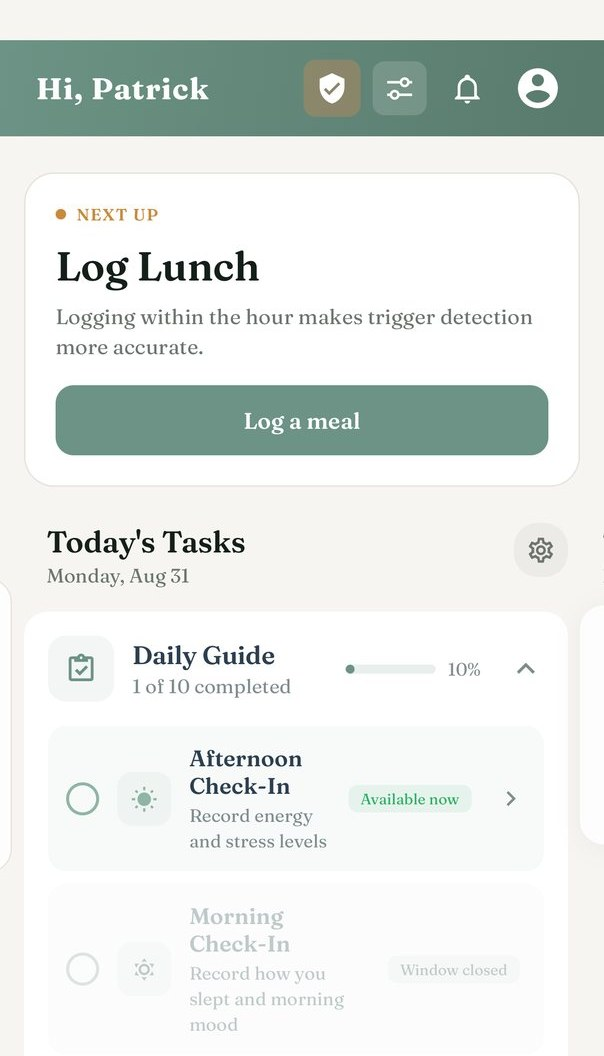
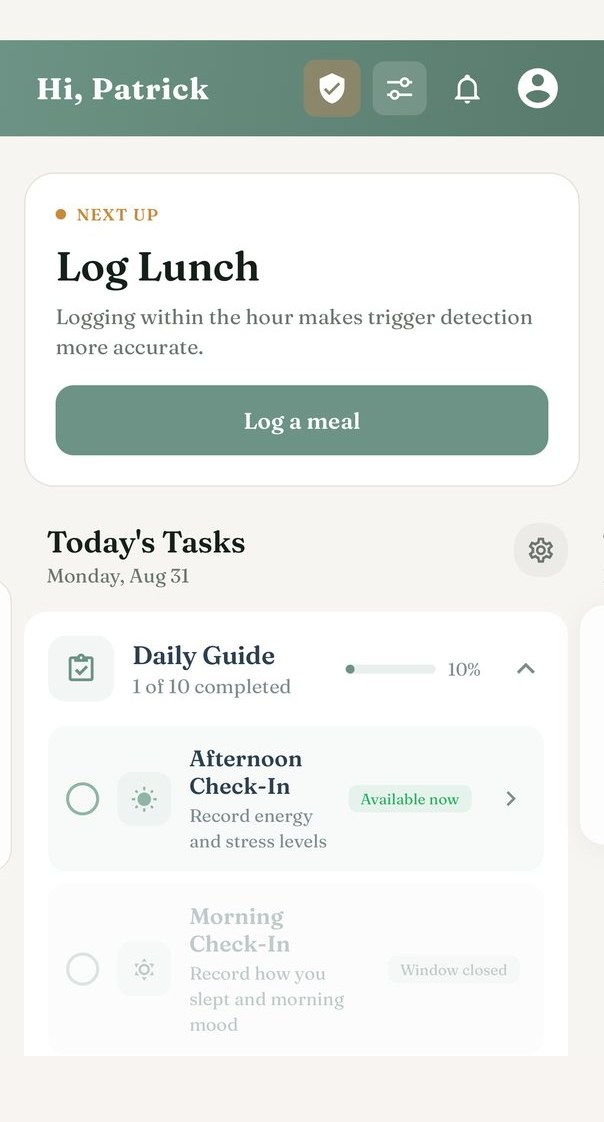
Rework the hero pair
Three things, all following from cropping the chrome off the screenshots.

The meal photograph was flush against the top edge of the front phone, with
no app above it, so it read as a cropped picture rather than a screen. Its
window had been slid down to 209 to save the analysis description, and at
1056px tall it could have the air or the description, never both: the
photograph starts at 182 and the card runs to 1262.

So the frames are 1122 now, and both are the same shape. Holding them to one
height was the thing making it impossible, and matching them was right for a
different reason too — the depth is already carried by scale(.88), the
rotation and the dimmed brightness on the back phone. A different aspect ratio
on top of that made them two differently-shaped objects rather than one phone
seen twice, and 6% is the worst possible amount: too small to read as
perspective, too large to look identical.

hero-home cannot be cropped to 1122, because its floating tab bar starts at
1140 and starting that much earlier would land inside the status bar. Its last
66px are its own ground colour instead, sampled from the screenshot — a band
at the bottom of a phone that is scaled down, rotated and partly behind the
other one.

And the gap above the pair is opened up. The frames lost 257px when the chrome
came off, so the spacing that had been tuned against full-length phones read
tight against these.

diff --git a/css/style.css b/css/style.css
@@ -195,7 +195,11 @@ header nav a:hover { color: var(--cream); }
 
 .hero-inner {
   display: grid;
-  gap: clamp(2.5rem, 6vw, 4rem);
+  /* Opened up after the screenshots were cropped. The frames lost 257px of
+     height, so the same gap read tighter against them than it had against
+     full-length phones — the hero is the one place on the page with nothing
+     competing for the space, and it can afford the air. */
+  gap: clamp(3.25rem, 7.5vw, 5.25rem);
   align-items: center;
 }
 
@@ -407,6 +411,13 @@ header nav a:hover { color: var(--cream); }
    no absolute positioning to keep in sync. The back phone deliberately runs
    past the container — .hero clips it, which is what makes it read as a stack
    continuing off-frame rather than two phones that happen to touch. */
+/* One shape for both. The depth is already carried by scale(.88), the
+   rotation and the dimmed brightness below; a different aspect ratio on top
+   of that made them two differently-shaped objects rather than one phone seen
+   twice. hero-home is padded to this height with its own ground colour,
+   because its tab bar starts at 1140 and it cannot be cropped any taller. */
+.hero-phone .device { aspect-ratio: 604 / 1122; }
+
 .hero-shot {
   display: grid;
   grid-template-areas: 'stack';

diff --git a/index.html b/index.html
@@ -92,12 +92,12 @@
         <figure class="hero-shot">
           <div class="hero-phone hero-phone-back">
             <div class="device">
-              <img src="images/screens/hero-home.jpg" alt="" width="604" height="1056" loading="eager" decoding="async">
+              <img src="images/screens/hero-home.jpg" alt="" width="604" height="1122" loading="eager" decoding="async">
             </div>
           </div>
           <div class="hero-phone hero-phone-front">
             <div class="device">
-              <img src="images/screens/hero-meal.jpg" alt="A logged meal in Flori: the photograph, its calories and macros, and the analysis beneath" width="604" height="1056" loading="eager" decoding="async">
+              <img src="images/screens/hero-meal.jpg" alt="A logged meal in Flori: the photograph, its calories and macros, and the analysis beneath" width="604" height="1122" loading="eager" decoding="async">
             </div>
           </div>
         </figure>
